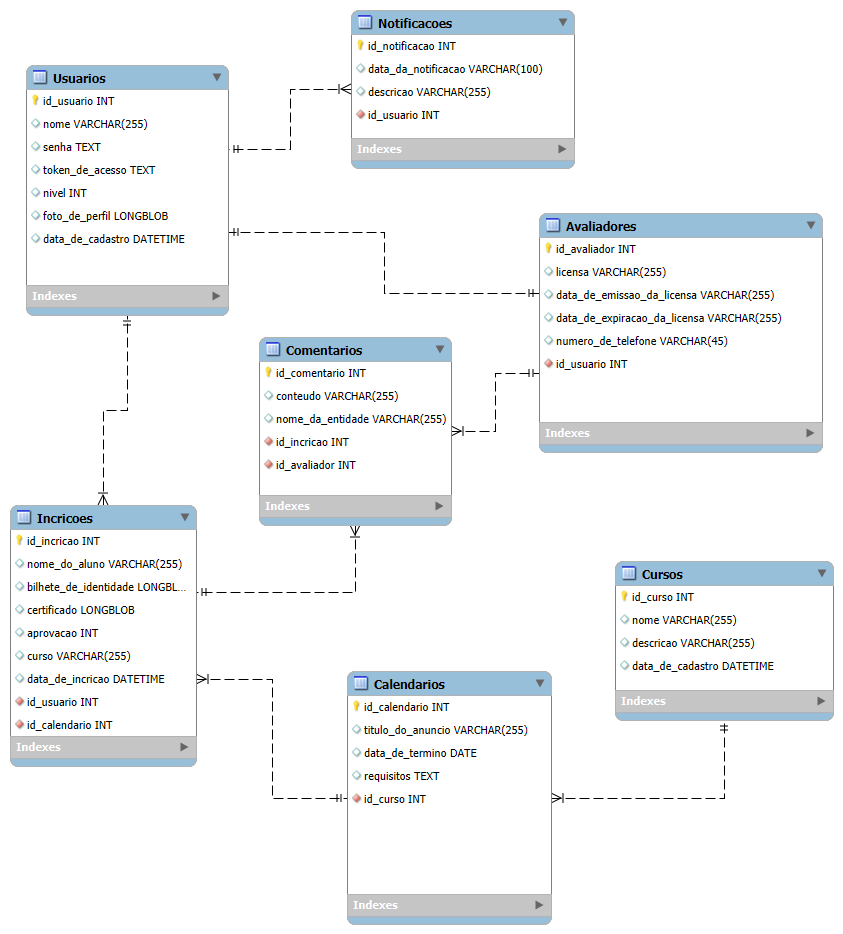
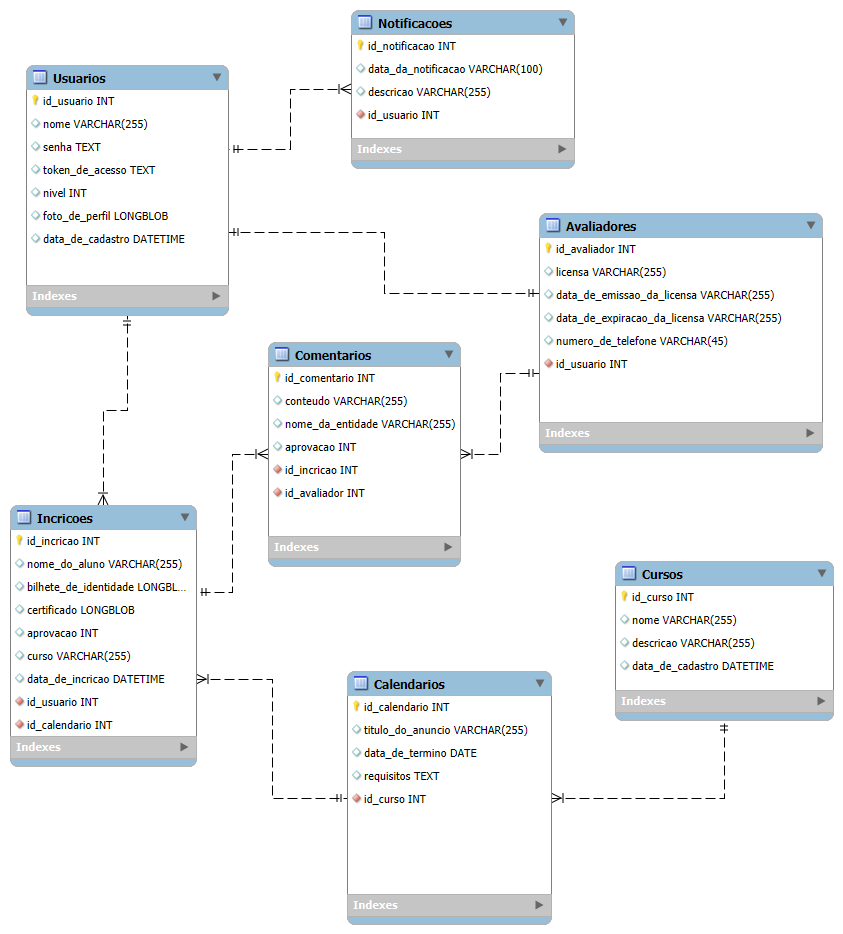
update ER

Changed region(s): [[0.3084, 0.3415, 0.5552, 0.621]]

diff --git a/README.md b/README.md
@@ -56,6 +56,7 @@ Armazena comentários sobre as inscrições.
 - **nome_da_entidade (VARCHAR(255))** - Nome da entidade que fez o comentário.
 - **id_inscricao (INT)** - Chave estrangeira referenciando `Inscricoes`.
 - **id_avaliador (INT)** - Chave estrangeira referenciando `Avaliadores`.
+- **aprovacao (INT)** - Aprovação da entidade.
 
 **Relacionamentos:**
 - Um comentário pertence a uma inscrição e pode ser feito por um avaliador.
